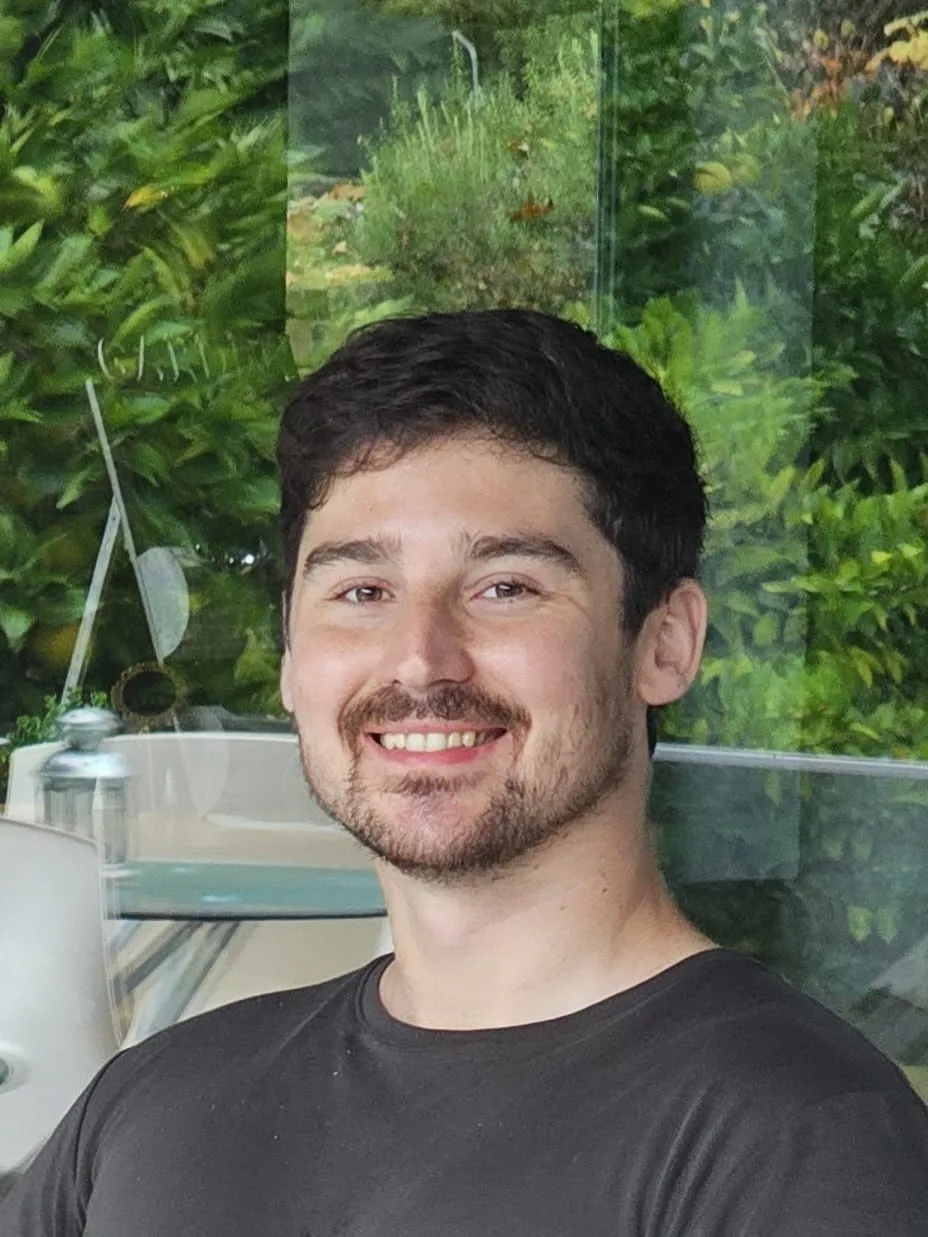
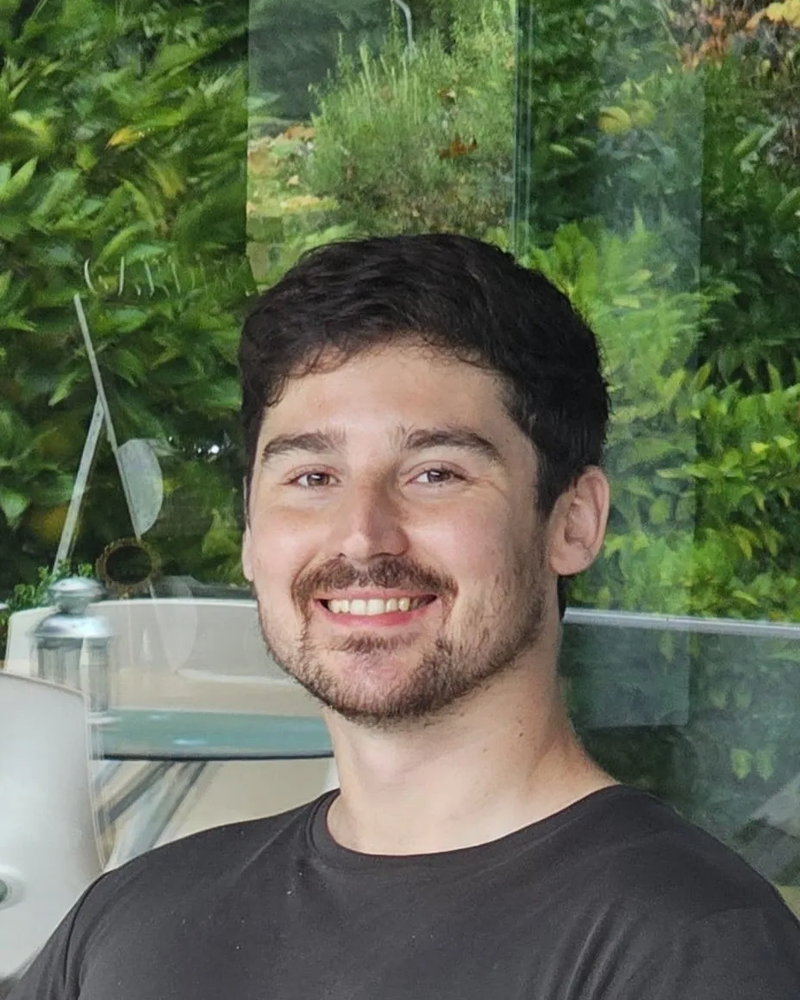
feat: redesign about section with professional background

diff --git a/src/pages/HomePage/sections/AboutSection/AboutSection.module.css b/src/pages/HomePage/sections/AboutSection/AboutSection.module.css
@@ -4,19 +4,91 @@
     border-top: 1px solid var(--color-border);
 }
 
+.layout {
+    display: grid;
+    grid-template-columns:
+        minmax(16rem, 0.8fr) minmax(0, 1.2fr);
+    align-items: center;
+    gap: var(--space-10);
+}
+
+.media {
+    min-width: 0;
+}
+
+.image {
+    display: block;
+    width: 100%;
+    height: auto;
+    aspect-ratio: 4 / 5;
+    object-fit: cover;
+    object-position: center;
+    border: 1px solid var(--color-border);
+    border-radius: var(--border-radius-md);
+    background-color: var(--color-surface-secondary);
+}
+
 .content {
-    max-width: var(--text-width);
+    min-width: 0;
 }
 
 .paragraphs {
     display: grid;
     gap: var(--space-5);
-    margin-top: var(--space-5);
+    margin-top: var(--space-6);
     color: var(--color-text-secondary);
+}
+
+.facts {
+    display: grid;
+    grid-template-columns: repeat(3, minmax(0, 1fr));
+    gap: var(--space-3);
+    margin: var(--space-8) 0 0;
+}
+
+.fact {
+    min-width: 0;
+    padding: var(--space-4);
+    border: 1px solid var(--color-border);
+    border-radius: var(--border-radius-sm);
+    background-color: var(--color-surface-secondary);
+}
+
+.factLabel {
+    color: var(--color-text-secondary);
+    font-size: var(--font-size-sm);
+    font-weight: var(--font-weight-medium);
+}
+
+.factValue {
+    margin: var(--space-2) 0 0;
+    color: var(--color-text-primary);
+    font-weight: var(--font-weight-semibold);
+}
+
+@media (max-width: 64rem) {
+    .layout {
+        grid-template-columns:
+            minmax(14rem, 0.75fr) minmax(0, 1.25fr);
+        gap: var(--space-8);
+    }
+
+    .facts {
+        grid-template-columns: 1fr;
+    }
 }
 
 @media (max-width: 48rem) {
     .section {
         padding-block: var(--space-16);
+    }
+
+    .layout {
+        grid-template-columns: 1fr;
+    }
+
+    .media {
+        width: min(100%, 28rem);
+        margin-inline: auto;
     }
 }

diff --git a/src/pages/HomePage/sections/AboutSection/AboutSection.jsx b/src/pages/HomePage/sections/AboutSection/AboutSection.jsx
@@ -11,17 +11,42 @@ export default function AboutSection({ content }) {
       aria-labelledby="about-title"
     >
       <Container>
-        <div className={styles.content}>
-          <SectionHeader
-            eyebrow={content.eyebrow}
-            title={content.title}
-            titleId="about-title"
-          />
+        <div className={styles.layout}>
+          <div className={styles.media}>
+            <img
+              className={styles.image}
+              src={content.profileImage.src}
+              alt={content.profileImage.alt}
+              width={content.profileImage.width}
+              height={content.profileImage.height}
+              loading="lazy"
+              decoding="async"
+            />
+          </div>
 
-          <div className={styles.paragraphs}>
-            {content.paragraphs.map((paragraph, index) => (
-              <p key={index}>{paragraph}</p>
-            ))}
+          <div className={styles.content}>
+            <SectionHeader
+              eyebrow={content.eyebrow}
+              title={content.title}
+              titleId="about-title"
+              description={content.description}
+            />
+
+            <div className={styles.paragraphs}>
+              {content.paragraphs.map((paragraph) => (
+                <p key={paragraph}>{paragraph}</p>
+              ))}
+            </div>
+
+            <dl className={styles.facts}>
+              {content.facts.map((fact) => (
+                <div className={styles.fact} key={fact.id}>
+                  <dt className={styles.factLabel}>{fact.label}</dt>
+
+                  <dd className={styles.factValue}>{fact.value}</dd>
+                </div>
+              ))}
+            </dl>
           </div>
         </div>
       </Container>

diff --git a/src/pages/HomePage/config/homePage.config.js b/src/pages/HomePage/config/homePage.config.js
@@ -33,6 +33,42 @@ function groupProjects(projects) {
   };
 }
 
+function getAboutConfig(translations) {
+  return {
+    eyebrow: translations.about.eyebrow,
+    title: translations.about.title,
+    description: translations.about.description,
+    paragraphs: translations.about.paragraphs,
+
+    profileImage: {
+      ...personalData.profileImage,
+      alt: translations.about.imageAlt,
+    },
+
+    facts: [
+      {
+        id: "location",
+        label: translations.about.facts.locationLabel,
+        value: personalData.location,
+      },
+      {
+        id: "freelance",
+        label: translations.about.facts.freelanceLabel,
+        value:
+          `${translations.about.facts.freelanceValuePrefix} ` +
+          personalData.freelancerSince,
+      },
+      {
+        id: "navy",
+        label: translations.about.facts.navyLabel,
+        value:
+          `${personalData.navyServiceYears} ` +
+          translations.about.facts.navyValueSuffix,
+      },
+    ],
+  };
+}
+
 function getLocalizedSkills(translations) {
   return skillsData.map((skill) => {
     const translatedSkill = translations.skills.items[skill.id];
@@ -88,7 +124,7 @@ export function getHomePageConfig(language) {
       ...groupedProjects,
     },
 
-    about: translations.about,
+    about: getAboutConfig(translations),
 
     skills: {
       eyebrow: translations.skills.eyebrow,
@@ -101,7 +137,7 @@ export function getHomePageConfig(language) {
       eyebrow: translations.contact.eyebrow,
       title: translations.contact.title,
       description: translations.contact.description,
-      note: `${translations.contact.emailLabel}: ${personalData.email}`,
+      note: `${translations.contact.emailLabel}: ` + personalData.email,
     },
 
     footer: {

diff --git a/src/i18n/translations/pt.js b/src/i18n/translations/pt.js
@@ -140,16 +140,24 @@ const portugueseTranslations = {
   about: {
     eyebrow: "Percurso profissional",
     title: "Sobre mim",
+    description:
+      "Transformo necessidades reais em soluções web claras, organizadas e preparadas para crescer.",
+
+    imageAlt: "Retrato de João Costa, programador web full stack",
 
     paragraphs: [
-      "Sou programador web full stack e trabalho como freelancer no desenvolvimento de websites e aplicações adaptados às necessidades reais de empresas e organizações.",
+      "Desde 2025, trabalho como freelancer e acompanho projetos de ponta a ponta: pesquisa, levantamento de requisitos, definição da solução, desenvolvimento, publicação e suporte.",
 
-      "Acompanho cada projeto desde a pesquisa e levantamento de requisitos até à definição da solução, desenvolvimento, publicação e suporte. Trabalho principalmente com JavaScript, React, Node.js, Express, Prisma e PostgreSQL.",
-
-      "Antes de iniciar o meu percurso no desenvolvimento web, servi durante seis anos na Marinha Portuguesa. Essa experiência consolidou competências como disciplina, responsabilidade, resiliência, trabalho em equipa e capacidade de trabalhar sob pressão.",
-
-      "Atualmente, procuro continuar a desenvolver projetos para clientes e integrar uma equipa onde possa contribuir com experiência prática, aprofundar conhecimentos técnicos e participar na construção de soluções com impacto real.",
+      "Antes de iniciar o meu percurso no desenvolvimento web, servi durante seis anos na Marinha Portuguesa. Essa experiência reforçou competências como disciplina, responsabilidade, resiliência, trabalho em equipa e capacidade de atuar sob pressão.",
     ],
+
+    facts: {
+      locationLabel: "Localização",
+      freelanceLabel: "Freelance",
+      freelanceValuePrefix: "Desde",
+      navyLabel: "Marinha Portuguesa",
+      navyValueSuffix: "anos de serviço",
+    },
   },
 
   skills: {

diff --git a/src/i18n/translations/en.js b/src/i18n/translations/en.js
@@ -138,16 +138,24 @@ const englishTranslations = {
   about: {
     eyebrow: "Professional background",
     title: "About me",
+    description:
+      "I turn real needs into clear, organised web solutions designed to grow.",
+
+    imageAlt: "Portrait of João Costa, full-stack web developer",
 
     paragraphs: [
-      "I am a full-stack web developer working as a freelancer, building websites and applications adapted to the real needs of companies and organisations.",
-
-      "I follow each project from research and requirements gathering through solution definition, development, deployment and support. I mainly work with JavaScript, React, Node.js, Express, Prisma and PostgreSQL.",
+      "Since 2025, I have worked as a freelance developer, following projects from research and requirements gathering through solution definition, development, deployment and ongoing support.",
 
       "Before starting my career in web development, I served for six years in the Portuguese Navy. That experience strengthened skills such as discipline, responsibility, resilience, teamwork and the ability to perform under pressure.",
-
-      "I currently aim to continue developing projects for clients and join a team where I can contribute practical experience, deepen my technical knowledge and help build solutions with real impact.",
     ],
+
+    facts: {
+      locationLabel: "Location",
+      freelanceLabel: "Freelance",
+      freelanceValuePrefix: "Since",
+      navyLabel: "Portuguese Navy",
+      navyValueSuffix: "years of service",
+    },
   },
 
   skills: {

diff --git a/src/data/personal.data.js b/src/data/personal.data.js
@@ -2,11 +2,14 @@ export const personalData = {
   name: "João Costa",
   location: "Aveiro, Portugal",
   freelancerSince: 2025,
+  navyServiceYears: 6,
 
   email: "[email redacted]",
 
   profileImage: {
     src: "/images/profile/joao-costa.webp",
+    width: 800,
+    height: 1000,
   },
 
   cv: {